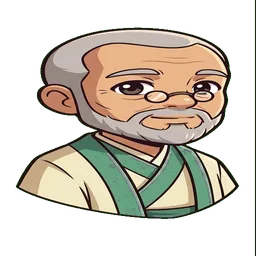
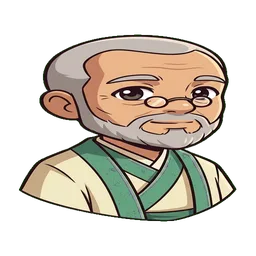
Normalize art framing: the new portraits really were bigger
Measured the alpha bounding box of every asset as a share of its canvas.
The ten species x role assets came back framed much tighter than the
established set: portraits 94.3% wide against 62.8%, tokens 92.6%
against 54.8%. Heights barely moved, so it is a zoom-and-widen, not a
stretch -- but in a 40px circular portrait crop a subject that wide gets
sheared at both sides, which is what reads as squashed. On the board it
was worse than cosmetic: apparent size is the cue that makes an ogre
tower over a kobold, and a halfling priest was out-bulking a goblin.

process.py now enforces a framing ceiling on the hero/species roster.
A ceiling, not a target, because the old art varies on purpose -- the
gnome bard fills 36% of its token frame against the fighter's 51%, which
is how Small species read as smaller. Normalising to one value would
have made halflings human-sized. Monsters are excluded entirely; their
framing is their size tier.

Also strips keying residue that was inflating the measurements: dust,
and the hairline curtain some sources carry down one edge. Two rules,
because they are different problems -- the curtain is often fused to the
figure (token-tiefling-knight is a single connected blob: columns 0-3
opaque for 465 of 512 rows, column 4 for 34), so component analysis
cannot see it.

Worth recording: the first speck rule dropped every small detached blob
and deleted the elf wizard's floating rune, the iconic feature its
[…]

Changed region(s): [[0.0625, 0.0938, 0.9375, 0.875], [0.9688, 0.0, 1.0, 1.0]]

diff --git a/art/process.py b/art/process.py
@@ -1,8 +1,20 @@
 #!/usr/bin/env python3
 """
 Process generated source art (art/source/*.png, 512px RGBA) into web assets:
-downscale to 256px and convert to WebP with alpha. Framing is preserved (no
-per-image trim) so the intended relative size tiers survive.
+downscale to 256px and convert to WebP with alpha.
+
+Framing is preserved (no per-image trim) for monsters, because how much of the
+frame a creature fills is exactly what encodes its size tier — an ogre must
+tower over a kobold on the board.
+
+The hero/species roster is different: every one of them is a Medium humanoid,
+so they should all be framed alike, and a generation session that zooms in
+tighter than the last one silently makes those heroes look bigger than the ones
+drawn before. That happened: the ten species x role portraits came back ~50%
+wider (portraits) and ~70% wider (tokens) than the established set, several
+touching the canvas edge. `normalize_framing` rescales any roster asset whose
+ink falls outside the tolerance band back to the house target. It is a no-op
+for art already in band, so existing files stay byte-identical.
 
 Only ids the engine actually references are emitted; unreferenced source art
 (e.g. class/species variants not yet wired) stays in source for later.
@@ -10,12 +22,198 @@ Only ids the engine actually references are emitted; unreferenced source art
 Usage: python art/process.py
 """
 import os
+import sys
 from PIL import Image
 
 SRC = os.path.join(os.path.dirname(__file__), "source")
 OUT = os.path.join(os.path.dirname(__file__), "..", "web", "public", "art")
 SIZE = 256
 QUALITY = 82
+
+# --- framing normalization (hero/species roster only) ------------------------
+# Every id here is a Medium humanoid hero, so they share one framing target.
+# Monsters are deliberately absent: their framing carries their size tier.
+ROSTER = {
+    "fighter", "wizard", "cleric", "rogue", "ranger", "paladin",
+    "orc-barbarian", "dragonborn-paladin", "gnome-bard", "halfling-rogue",
+    "tiefling-warlock", "dwarf-berserker", "elf-archer", "human-bard",
+    "dwarf-cleric", "elf-wizard", "orc-shaman", "dragonborn-sorcerer",
+    "tiefling-knight", "gnome-warden", "halfling-warrior", "halfling-priest",
+}
+
+# A *ceiling* on "ink area" — the alpha bounding box as a fraction of the
+# canvas — not a target. Two reasons it must be a ceiling:
+#
+#  - The established set deliberately varies: the gnome bard's token fills 36%
+#    and the fighter's 51%, which is how Small species read as smaller than
+#    Medium ones on the board. Normalising everything to one value would flatten
+#    that distinction and make halflings human-sized.
+#  - What actually went wrong is a shifted distribution, not a few outliers: the
+#    ten new assets average 71% ink where the old set averages 58% (portraits)
+#    and 49% (tokens). Capping pulls the overscaled ones down without touching
+#    anything already framed like the rest of the game.
+#
+# Set near the established set's 75th percentile, so the existing art is almost
+# entirely untouched and only genuine frame-fillers move.
+MAX_AREA = {"portrait": 0.62, "token": 0.55}
+# Nothing may touch the canvas edge — the style bible asks for padding all
+# round, and a bust cropped at the frame reads as bursting out of it.
+MIN_PAD = 0.03
+
+
+# What counts as a leftover rather than art. Measured from the sources: the
+# greenscreen edge lines are tall thin blobs *touching the canvas border*
+# (3x512, 64x470), while a spell's floating rune or a sorcerer's lightning arc
+# sits in the interior at 400-900 px. Dust is a handful of pixels anywhere.
+DUST_MAX_PX = 32            # smaller than 6x6 — never meaningful art
+EDGE_ARTIFACT_MAX_SHARE = 0.10   # a border blob this small is a keying leftover
+
+
+def ink_bbox(im, thresh=40):
+    """Bounding box of solid ink, ignoring the anti-aliased fringe.
+
+    `Image.getbbox()` counts any non-zero alpha, and downscaling to 256 spreads
+    a soft edge a pixel or two outward — enough to read 58% where the asset was
+    scaled to 55%. Thresholding keeps the measurement stable across sizes, so
+    the pipeline and its --check agree.
+    """
+    a = im.split()[3]
+    return a.point(lambda v: 255 if v > thresh else 0).getbbox()
+
+
+def strip_edge_curtains(im, max_width=8, tall=0.70, isolated=0.25):
+    """Erase a hairline "curtain" fused to the subject along a canvas edge.
+
+    Keying sometimes leaves a near-full-height stroke hugging the border, and
+    where it happens to touch the figure it becomes part of the same connected
+    blob — so `strip_specks` cannot see it. Measured on token-tiefling-knight:
+    columns 0-3 opaque for 465 of 512 rows, column 4 for only 34.
+
+    A curtain is a short run of edge columns (or rows) that are nearly
+    full-length, ending abruptly at something that is not. The isolation check
+    is what keeps a character legitimately drawn to the frame edge safe: its
+    body stays thick as you move inward, a curtain does not.
+    """
+    w, h = im.size
+    a = im.split()[3]
+    px = a.load()
+    colh = [sum(1 for y in range(h) if px[x, y] > 40) for x in range(w)]
+    roww = [sum(1 for x in range(w) if px[x, y] > 40) for y in range(h)]
+    doomed_cols, doomed_rows = [], []
+
+    def scan(profile, length, limit):
+        """Return indices of a curtain run anchored at either end."""
+        hits = []
+        for anchor, step in ((0, 1), (len(profile) - 1, -1)):
+            run = []
+            i = anchor
+            while 0 <= i < len(profile) and len(run) < max_width and profile[i] >= length * tall:
+                run.append(i)
+                i += step
+            # It is only a curtain if the next line in is clearly thinner.
+            if run and 0 <= i < len(profile) and profile[i] <= length * isolated:
+                hits.extend(run)
+        return hits
+
+    doomed_cols = scan(colh, h, w)
+    doomed_rows = scan(roww, w, h)
+    if not doomed_cols and not doomed_rows:
+        return im, 0
+    out = im.copy()
+    o = out.load()
+    for x in doomed_cols:
+        for y in range(h):
+            o[x, y] = (0, 0, 0, 0)
+    for y in doomed_rows:
+        for x in range(w):
+            o[x, y] = (0, 0, 0, 0)
+    return out, len(doomed_cols) + len(doomed_rows)
+
+
+def strip_specks(im):
+    """Drop keying leftovers without touching deliberately detached art.
+
+    Several sources carry greenscreen residue — a hairline stroke down one
+    edge, scattered dust. It is invisible against the original framing but sits
+    inside the alpha bounding box, inflating the area measurement and pulling
+    the centring off.
+
+    The distinction that matters: an edge line touches the canvas border, a
+    floating rune does not. Removing every small blob instead (the obvious
+    first implementation) deleted the elf wizard's rune — the iconic feature
+    the prompt asked for — so the rule is deliberately narrow.
+    """
+    w, h = im.size
+    a = im.split()[3].load()
+    label = [[0] * w for _ in range(h)]
+    blobs = []
+    cur = 0
+    for sy in range(h):
+        for sx in range(w):
+            if a[sx, sy] <= 40 or label[sy][sx]:
+                continue
+            cur += 1
+            stack = [(sx, sy)]
+            label[sy][sx] = cur
+            pixels = []
+            while stack:
+                x, y = stack.pop()
+                pixels.append((x, y))
+                for dx, dy in ((1, 0), (-1, 0), (0, 1), (0, -1)):
+                    nx, ny = x + dx, y + dy
+                    if 0 <= nx < w and 0 <= ny < h and not label[ny][nx] and a[nx, ny] > 40:
+                        label[ny][nx] = cur
+                        stack.append((nx, ny))
+            blobs.append(pixels)
+    if not blobs:
+        return im, 0
+    biggest = max(len(b) for b in blobs)
+
+    def is_leftover(blob):
+        if len(blob) == biggest:
+            return False
+        if len(blob) <= DUST_MAX_PX:
+            return True
+        xs = [p[0] for p in blob]
+        ys = [p[1] for p in blob]
+        touches_edge = min(xs) <= 1 or max(xs) >= w - 2 or min(ys) <= 1 or max(ys) >= h - 2
+        return touches_edge and len(blob) < biggest * EDGE_ARTIFACT_MAX_SHARE
+
+    doomed = [b for b in blobs if is_leftover(b)]
+    if not doomed:
+        return im, 0
+    out = im.copy()
+    px = out.load()
+    for blob in doomed:
+        for x, y in blob:
+            px[x, y] = (0, 0, 0, 0)
+    return out, len(doomed)
+
+
+def normalize_framing(im, kind):
+    """Scale a roster asset down if it fills more of its frame than the house
+    ceiling allows. Never scales up — an asset drawn small is drawn small on
+    purpose (see MAX_AREA). Returns (image, scale); 1.0 means untouched.
+    """
+    bbox = ink_bbox(im)
+    if not bbox:
+        return im, 1.0
+    w, h = im.size
+    x0, y0, x1, y1 = bbox
+    bw, bh = x1 - x0, y1 - y0
+    area = (bw / w) * (bh / h)
+    ceiling = MAX_AREA[kind]
+    if area <= ceiling:
+        return im, 1.0
+    scale = (ceiling / area) ** 0.5
+    # Never let the result touch the edge, whatever the area maths says.
+    cap = min((1 - 2 * MIN_PAD) * w / bw, (1 - 2 * MIN_PAD) * h / bh)
+    scale = min(scale, cap)
+    subject = im.crop(bbox).resize((max(1, round(bw * scale)), max(1, round(bh * scale))), Image.LANCZOS)
+    out = Image.new("RGBA", (w, h), (0, 0, 0, 0))
+    out.paste(subject, ((w - subject.width) // 2, (h - subject.height) // 2), subject)
+    return out, scale
+
 
 # Engine ids that have a token/portrait slot (classIds + monster ids).
 IDS = [
@@ -49,9 +247,16 @@ IDS = [
     "tok-bridge", "tok-lookout",
 ]
 
+# `python art/process.py --check` re-measures the emitted WebP instead of
+# rewriting it: a guard that committed assets really are within the house
+# framing, in case one is ever hand-edited or dropped in by another route.
+CHECK_ONLY = "--check" in sys.argv
+
 os.makedirs(OUT, exist_ok=True)
 total = 0
 have_token, have_portrait = [], []
+reframed = []
+despeckled = []
 
 for kind, bucket in (("token", have_token), ("portrait", have_portrait)):
     for cid in IDS:
@@ -59,6 +264,14 @@ for kind, bucket in (("token", have_token), ("portrait", have_portrait)):
         if not os.path.exists(src):
             continue
         im = Image.open(src).convert("RGBA")
+        if cid in ROSTER:
+            im, curtains = strip_edge_curtains(im)
+            im, specks = strip_specks(im)
+            if specks or curtains:
+                despeckled.append(f"{kind}-{cid} ({specks}b/{curtains}px)")
+            im, scale = normalize_framing(im, kind)
+            if scale != 1.0:
+                reframed.append(f"{kind}-{cid} x{scale:.2f}")
         if im.size != (SIZE, SIZE):
             im = im.resize((SIZE, SIZE), Image.LANCZOS)
         dst = os.path.join(OUT, f"{kind}-{cid}.webp")
@@ -68,4 +281,30 @@ for kind, bucket in (("token", have_token), ("portrait", have_portrait)):
 
 print(f"tokens:    {len(have_token)} -> {sorted(have_token)}")
 print(f"portraits: {len(have_portrait)} -> {sorted(have_portrait)}")
+if despeckled:
+    print(f"stray marks cleared: {len(despeckled)} -> {despeckled}")
+if reframed:
+    print(f"scaled down to the framing ceiling: {len(reframed)} -> {reframed}")
+if CHECK_ONLY:
+    bad = []
+    for kind in ("token", "portrait"):
+        for cid in sorted(ROSTER):
+            dst = os.path.join(OUT, f"{kind}-{cid}.webp")
+            if not os.path.exists(dst):
+                continue
+            im = Image.open(dst).convert("RGBA")
+            w, h = im.size
+            bb = ink_bbox(im)
+            if not bb:
+                continue
+            area = ((bb[2] - bb[0]) / w) * ((bb[3] - bb[1]) / h)
+            if area > MAX_AREA[kind] * 1.02:   # 2% slack for resampling
+                bad.append(f"{kind}-{cid}: fills {area*100:.0f}% (ceiling {MAX_AREA[kind]*100:.0f}%)")
+    if bad:
+        print("FRAMING CHECK FAILED:")
+        for b in bad:
+            print("  " + b)
+        sys.exit(1)
+    print("framing check: all roster assets within the ceiling")
+
 print(f"total WebP size: {total/1024:.0f} KB")

diff --git a/art/prompts.md b/art/prompts.md
@@ -384,12 +384,38 @@ Only the halfling has all three looks drawn (`halfling-warrior` /
 halfling rogue keeps the hooded art instead of being handed the mail shirt. Any
 species that later gains a Tier D skirmisher slots in the same way.
 
-**A note for the next generation run:** three of these ten came back with the
-spec label ("PORTRAIT") rendered into the bottom of the canvas, in both the
-token and the portrait — six files needing a cleanup pass before processing. The
-style preamble already says *no text, no watermark*; it is worth checking the
-bottom strip of every asset before running `process.py`, since the artefact is
-invisible once the image is scaled into a 48px token but obvious on the bust.
+### What went wrong in this run (check for it next time)
+
+Two artefact classes slipped through, neither visible in the source thumbnails:
+
+1. **Baked-in spec labels.** Three of the ten rendered the word "PORTRAIT" into
+   the bottom of the canvas, in both the token and the portrait — six files. The
+   style preamble already says *no text, no watermark*. Check the bottom strip
+   before processing: the artefact vanishes at 48px token size but is obvious on
+   the bust.
+2. **A zoom shift.** The set came back framed far tighter than the established
+   art — portraits ~50% wider in frame, tokens ~70% wider, several touching the
+   canvas edge. Individually they looked fine; beside the existing heroes they
+   read as bigger, and on the board they broke the size-tier cue that makes an
+   ogre tower over a kobold.
+
+`art/process.py` now defends against the second automatically: every asset in
+its `ROSTER` (the Medium humanoid heroes) is scaled down if its ink exceeds a
+framing **ceiling** measured from the established set. It is a ceiling rather
+than a target on purpose — the old art deliberately varies, with the gnome bard
+filling 36% of its token frame against the fighter's 51%, which is how Small
+species read as smaller. Normalising everything to one number would make
+halflings human-sized.
+
+The pipeline also strips keying residue: scattered dust, and the hairline
+"curtain" some sources carry down one edge. Where that curtain touches the
+figure it becomes part of the same connected shape, so it needs its own pass.
+Note the first implementation removed *every* small detached blob and deleted
+the elf wizard's floating rune — the iconic feature the prompt asked for — so
+the rule is deliberately narrow: border-hugging strokes and true dust only.
+
+Run `python art/process.py --check` to re-measure the committed WebP against the
+ceiling without rewriting anything.
 
 ---
 
